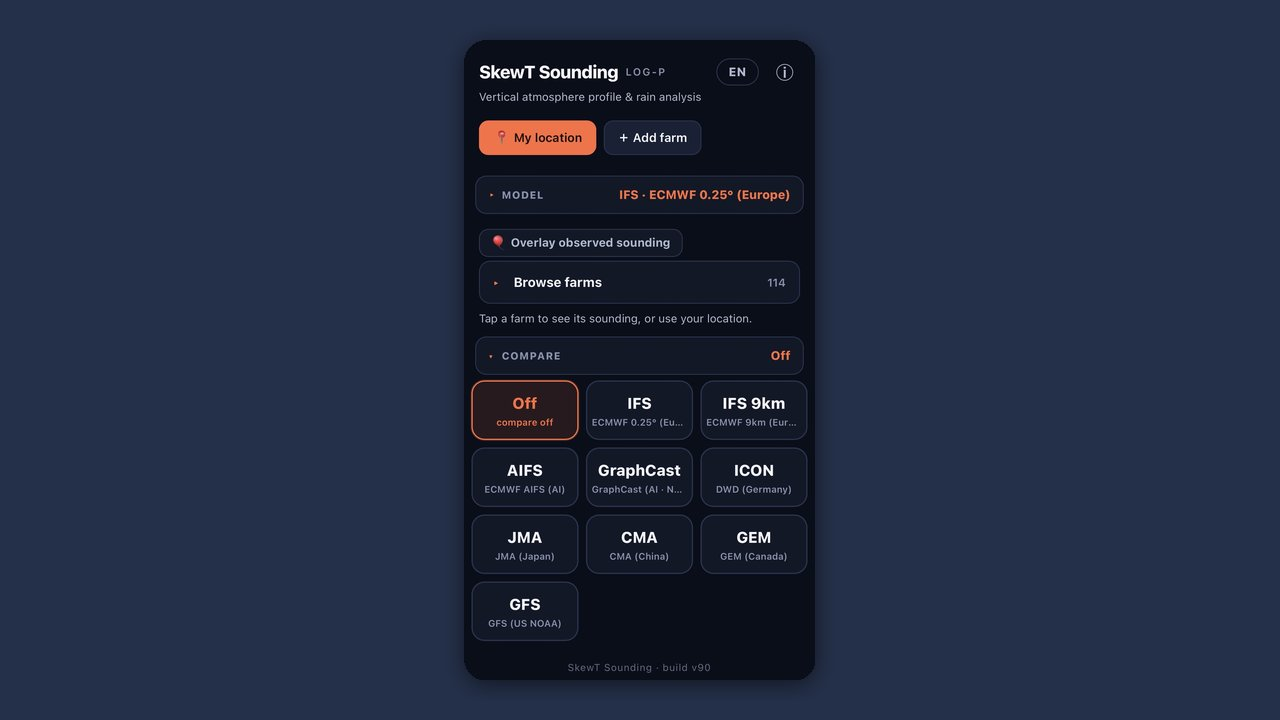
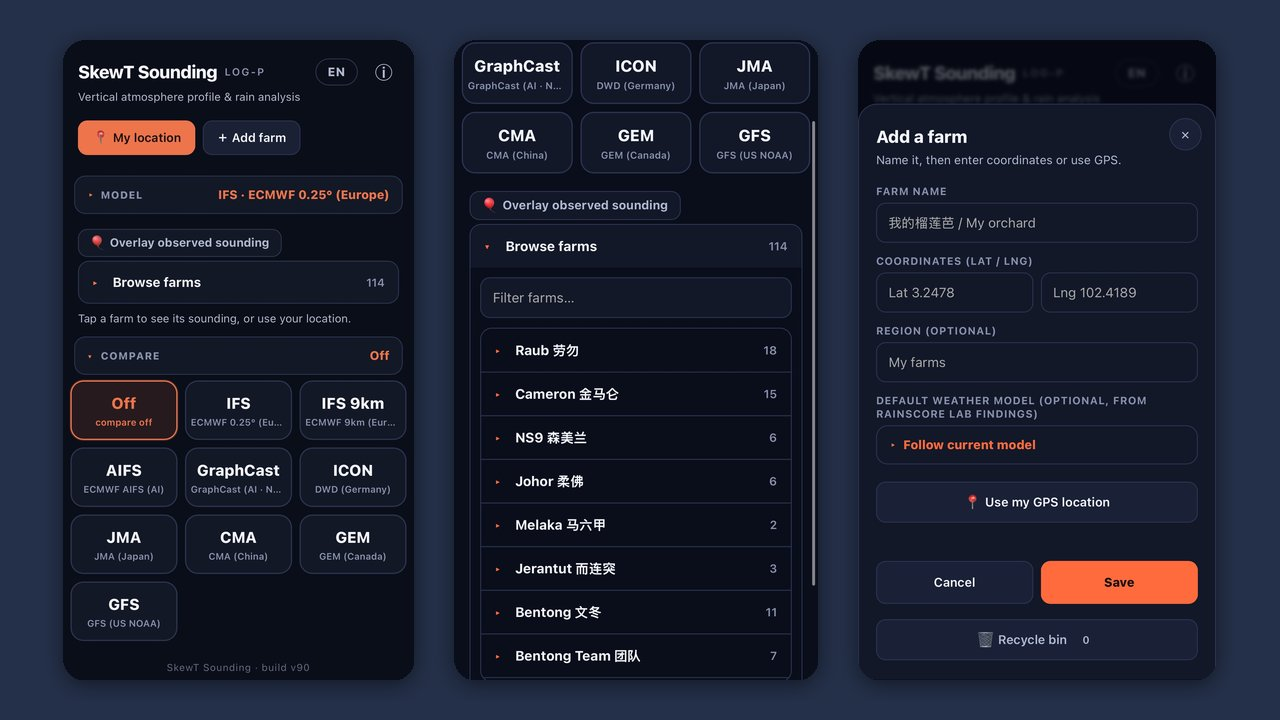
Add five learning apps; every cover is now three phone screens
- New: Bugs · Entomology, Meteorology, Plant Physiology, Oil Palm Wiki,
  Oil Palm Basics, each in zh/en/ms with three English screenshots
- Covers for these, SUHU and SkewT rebuilt in the same style: three
  phone screens side by side on the app's colour (one image, no slideshow)
- APP-STANDARDS: Entomology keeps its notes in data/releases.json

Claude-Session: https://claude.ai/code/session_01NninFLd2iuFr8gCs8Szore

diff --git a/APP-STANDARDS.md b/APP-STANDARDS.md
@@ -59,6 +59,7 @@ App 一更新，使用者下次打开时就要看到一个弹窗，写清楚：
 | Oil Palm Basics (SawitBasics) | `releases.js` |
 | Meteorology | `data/releases.json` |
 | Plant Physiology | `data/releases.json` |
+| Bugs · Entomology | `data/releases.json` |
 | Bible | `js/releases.js` |
 | Learn Statistics | `index.html` 的 `RELEASES` |
 | SUHU | 还没有，需要开发者加上 |
